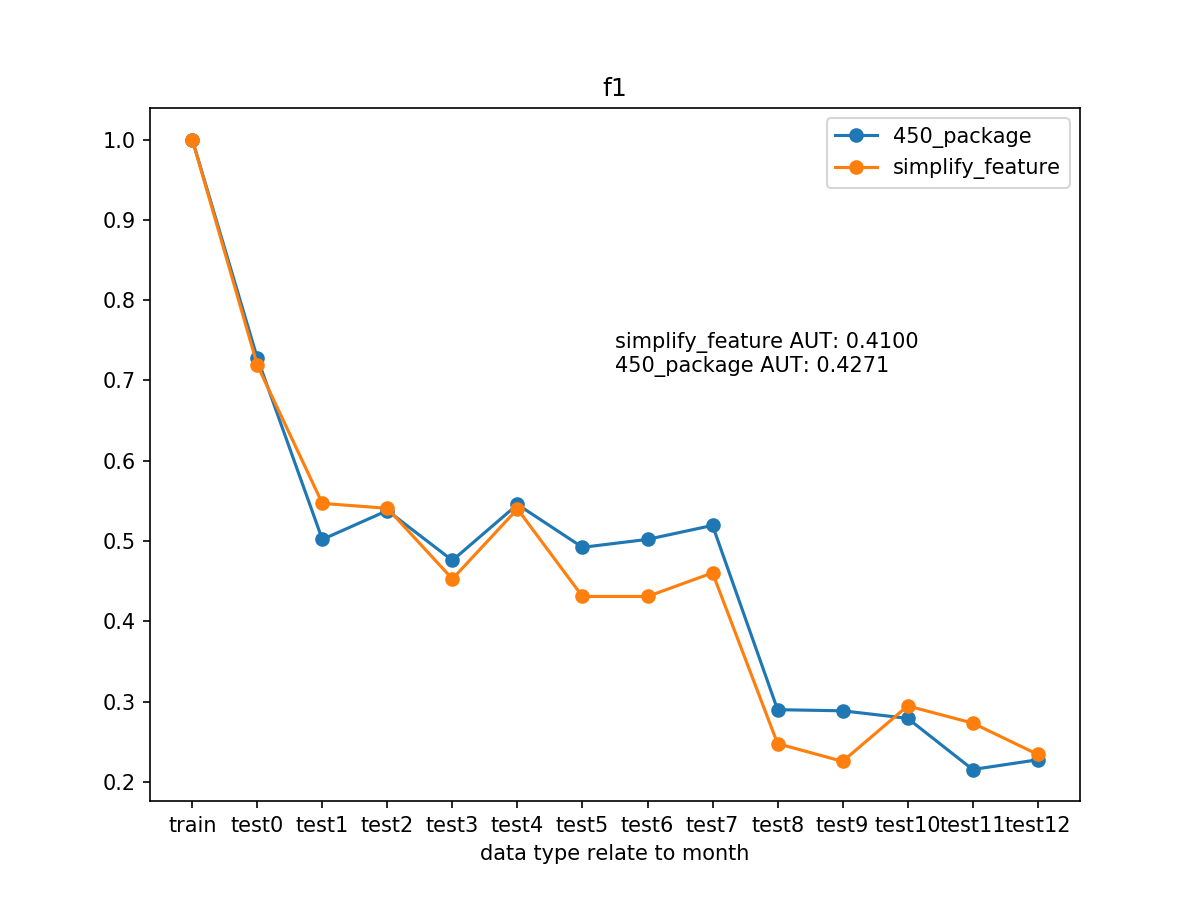
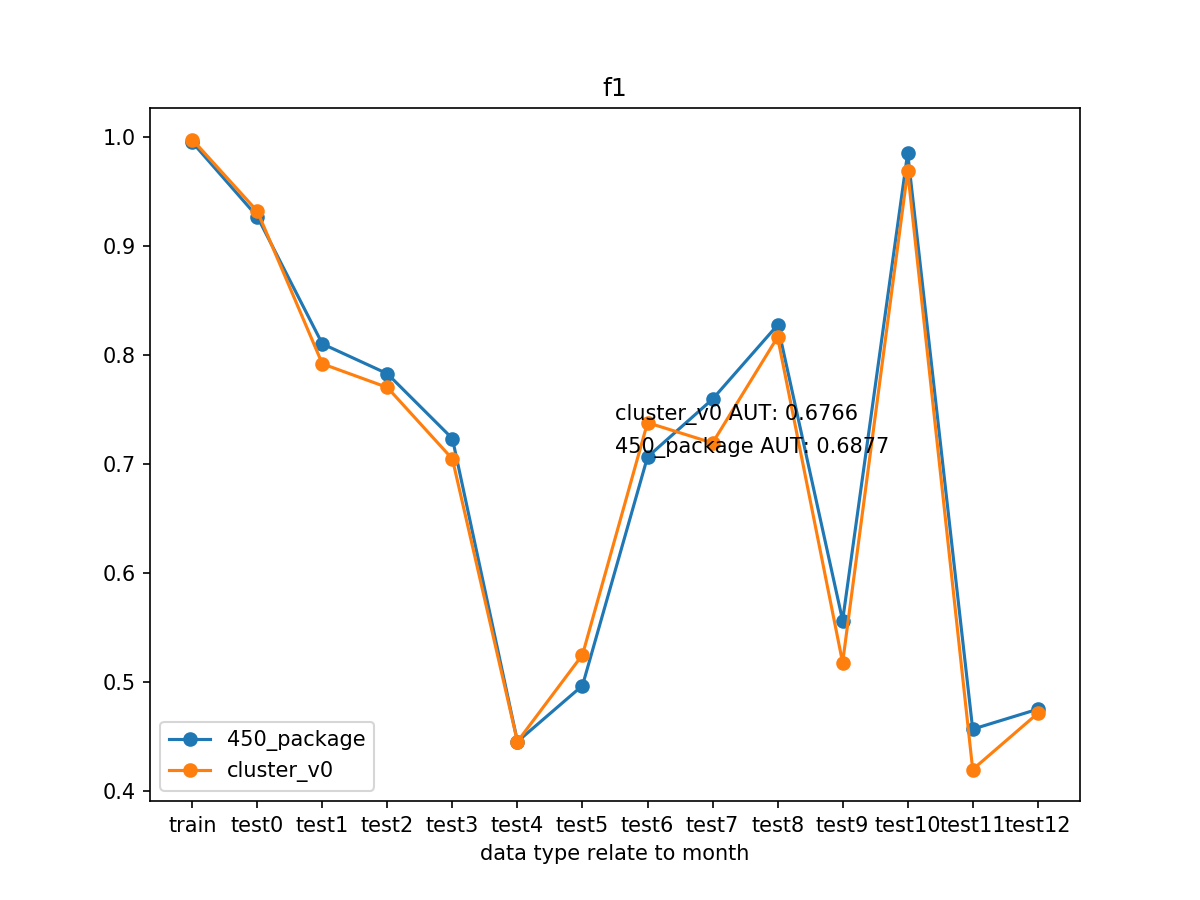
update code daily

diff --git a/visual_data.py b/visual_data.py
@@ -121,9 +121,19 @@ def main7():
 #     labels = ['mamadroid_origin_450', 'mamadroid_metaknowledge']
     visual_data(log_list, labels) 
  
+def main8():
+    dataset = 'dataset_20162017'
+    labels = ['450_package', 'cluster_v0']# ['450_package', 'cluster_v0'] # 'manual_package_v0', 'manual_package_v1', 
+#     labels = ['origin', 'bagging'] # , 'bagging','validation'
+    log_list = []
+    for label in labels:
+        log_list.append('./log/'  + dataset+ '_' + label + '_evaluation.txt')
+#         log_list.append('./log/' + label + '12_10.txt')
+#     labels = ['mamadroid_origin_450', 'mamadroid_metaknowledge']
+    visual_data(log_list, labels) 
 
 if __name__ == "__main__":
 #     main2()
 #     main1()
 #     main3()    
-    main7()
+    main8()

diff --git a/manage_MaMaStat_extraction.py b/manage_MaMaStat_extraction.py
@@ -43,7 +43,7 @@ def main():
 #         dataset_dir = '/home/mlsnrs/apks/VirusShare/dataset_s_baseline/%s' % dataset
     elif user == 'shellhand':
         root_dir_prefix = '/mnt'
-    root_dir = '%s/%s/mamadroid/%s/%s' % (root_dir_prefix, device_source, dataset, method)
+    root_dir = '%s/%s/mamadroid/%s' % (root_dir_prefix, device_source, method)
     dataset_list = []
     dataset_dir = '%s/VirusShare/dataset_s_baseline/%s' % (root_dir_prefix, dataset)        
     for file_name in os.listdir(dataset_dir):
